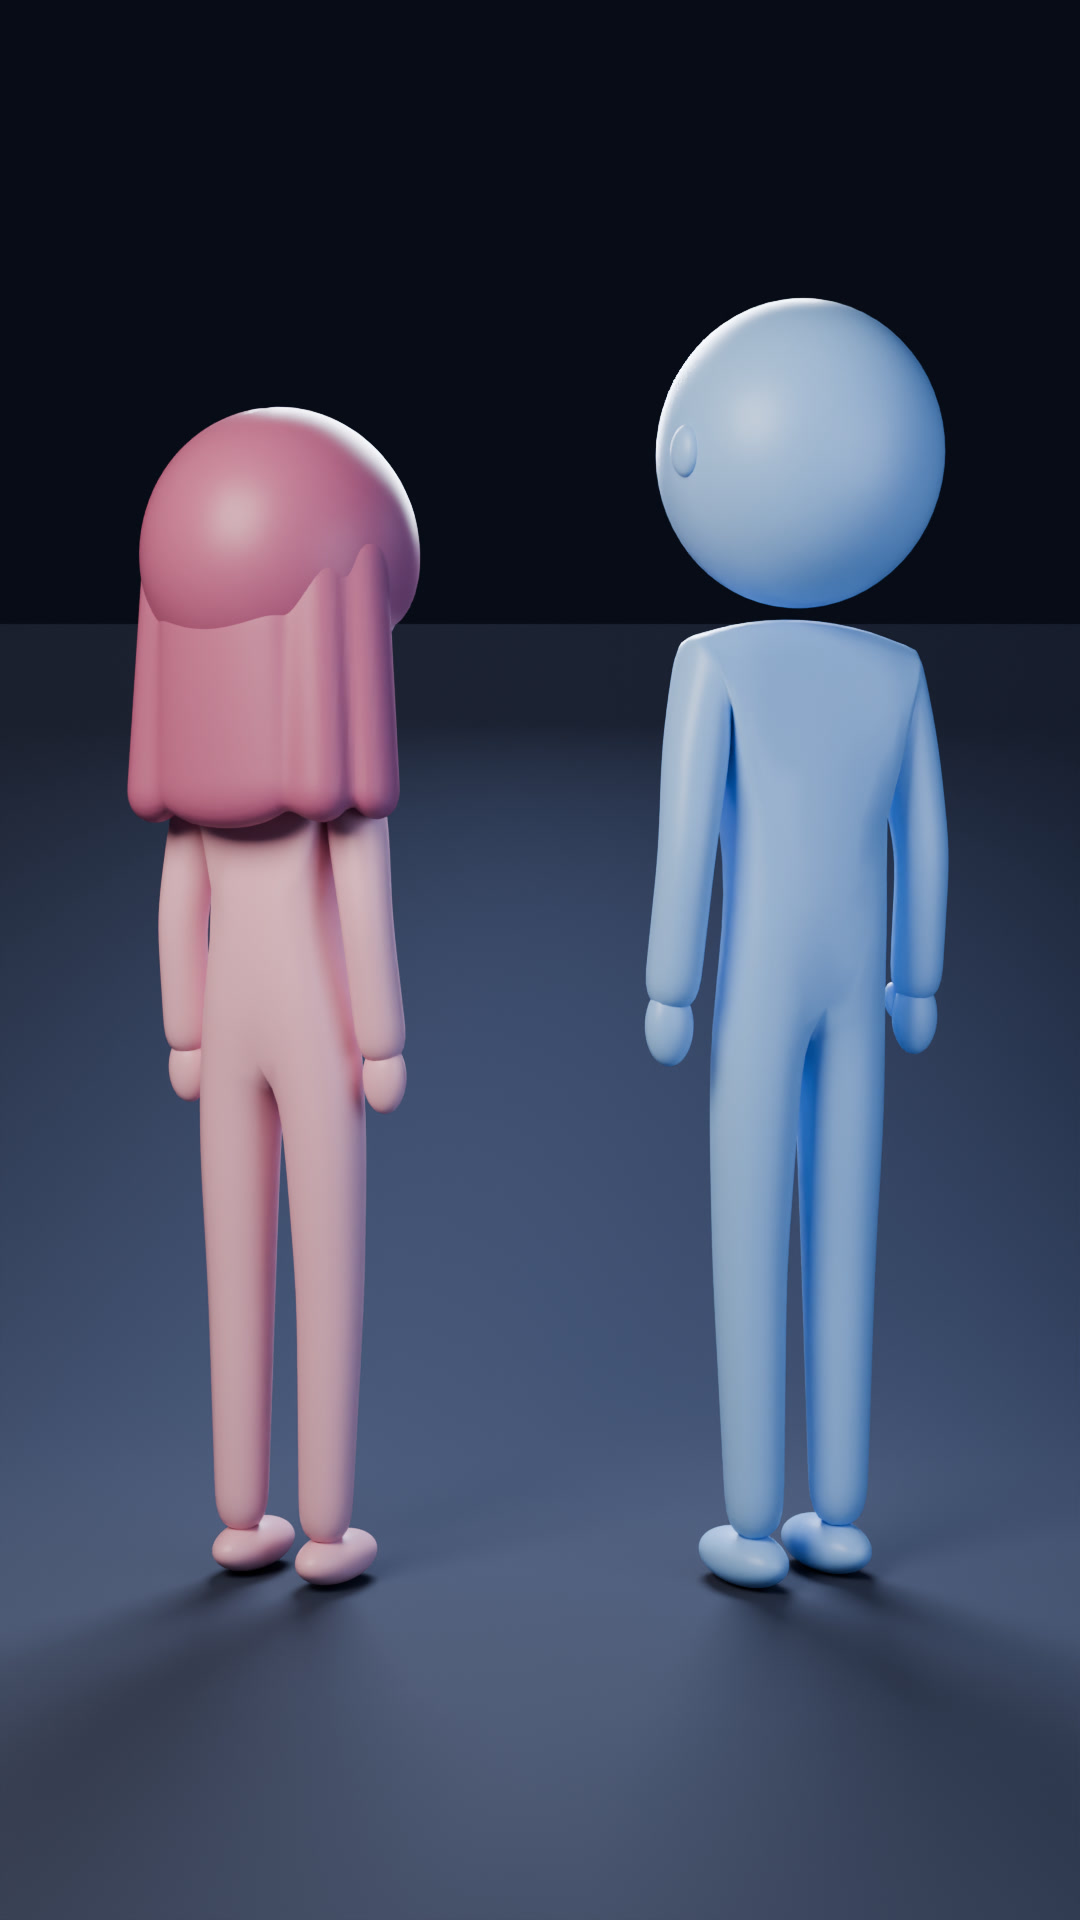
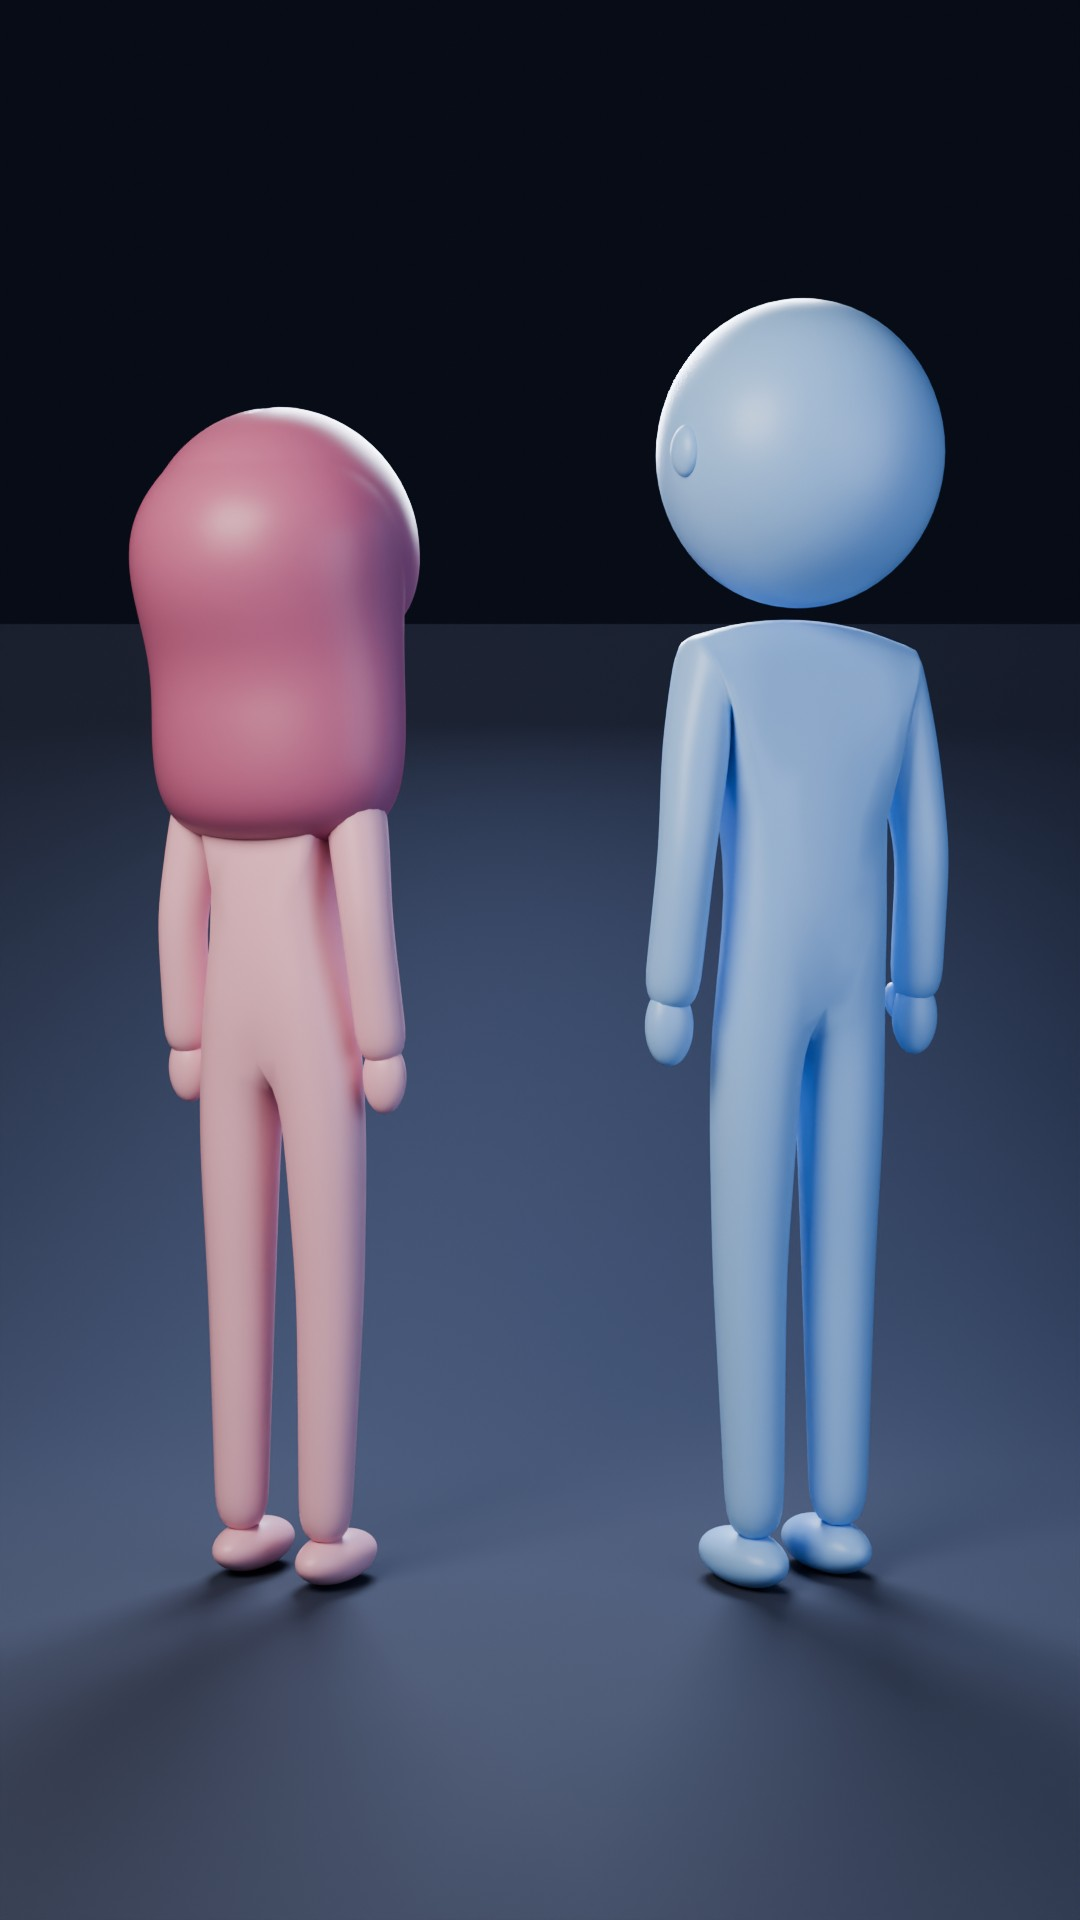
Her hanging hair: one smooth mass fused with the head, no seams
The hair is a single deformed sphere that wraps the back of the skull,
falls just below the shoulders and stays behind them in front. Head and
hair are joined and voxel-remeshed into one surface, then smoothed, so
there is no junction at the sides; the hair/skin colour mask is copied
from the original head and everything outside the skull is hair.
Updated character sheets and a hair close-up sheet.

Claude-Session: https://claude.ai/code/session_019j4rNug1jpN8UbwS8o65rp

Changed region(s): [[0.1222, 0.25, 0.3972, 0.4688]]

diff --git a/blender_figures/figures.py b/blender_figures/figures.py
@@ -139,24 +139,63 @@ def figure(w):
         nt.links.new(attr.outputs["Fac"], mix.inputs[0]); nt.links.new(mix.outputs[2], bsdf.inputs["Base Color"])
         bsdf.inputs["Roughness"].default_value = 0.42; bsdf.inputs["Subsurface Weight"].default_value = 0.06
         head.data.materials.clear(); head.data.materials.append(hm)
-        # the hanging part: soft blobby volume (metaballs) behind and beside the head, down to just below the shoulders
-        mb = bpy.data.metaballs.new("hairmb"); mb.resolution = 0.012; mb.render_resolution = 0.007; mb.threshold = 0.75
+        # the hanging part: ONE closed smooth mass (a deformed sphere) - hugs the back of the head, falls to just below
+        # the shoulders, comes forward only at the sides (frames the face), stays behind the neck in front; rounded ends
         bottom = -((H.z - R) - (z(1.22) - 0.13)) - R              # z of the hair ends, relative to the head centre
-        def blob(co, rad, sx, sy, sz):
-            e = mb.elements.new(); e.type = "ELLIPSOID"; e.co = co; e.radius = rad
-            e.size_x, e.size_y, e.size_z = sx, sy, sz; e.stiffness = 1.6
-        n = 22
-        blob((0, R * 0.3, R * 0.1), R * 0.93, 1.0, 0.9, 1.0)          # back of the head: hair dome merged with the strands
-        for i in range(n):
-            t = i / (n - 1); zz = 0.3 * R + (bottom + 0.06 - 0.3 * R) * t
-            fl = 1 + 0.18 * t                                    # ends flare a little
-            blob((0, R * (0.5 + 0.2 * min(1, t * 3) - 0.02 * t), zz), R * 0.42, 1.95 * fl, 0.72, 0.9)              # back sheet
-            for s in (-1, 1):
-                if t > 0.12:
-                    blob((s * R * 0.86 * fl, R * (0.2 + 0.05 * t), zz), R * 0.3, 0.8, 1.2, 0.9)   # side curtains
-                if t > 0.12: blob((s * R * 0.64 * fl, R * (0.46 + 0.1 * t), zz), R * 0.34, 1.0, 0.95, 0.9)        # corners
-        hs = bpy.data.objects.new("hair", mb); sc.collection.objects.link(hs)
-        hs.location = H; mb.materials.append(HAIR); reg(hs)
+        def sstep(a, b, x):
+            t = min(1, max(0, (x - a) / (b - a))); return t * t * (3 - 2 * t)
+        bpy.ops.mesh.primitive_uv_sphere_add(segments=128, ring_count=64, radius=1.0, location=(0, 0, 0))
+        hs = bpy.context.active_object; hs.name = "hair"
+        L = -bottom
+        for v in hs.data.vertices:
+            d = v.co.normalized()
+            # cap over the skull: just inside the raised hair of the head; pulled well inside at the face
+            back_bump = 0.09 * sstep(-0.2, 0.6, d.y) * (1 - sstep(0.05, 0.95, d.z))  # meets the curtain without a seam
+            cap = d * R * (1.03 + back_bump - 0.16 * sstep(-0.05, -0.45, d.y))
+            if d.z >= 0: v.co = cap; continue
+            s = -d.z
+            h = Vector((d.x, d.y, 0)); h = h.normalized() if h.length > 1e-6 else Vector((0, 1, 0))
+            rho = (1 - s ** 6) ** 0.3                                   # keeps the width, rounds off only at the very end
+            zz = -L * s ** 0.85
+            env = 1.13 * R * max(0.0, 1 - (zz / (1.13 * R)) ** 2) ** 0.5   # around the skull: stay just outside the head
+            def smax(p_, q_, k_=0.12 * R): return (p_ + q_ + ((p_ - q_) ** 2 + k_ * k_) ** 0.5) / 2
+            rx = smax(R * (1.0 + 0.10 * s) * rho, env)                  # width: head-wide, slightly fuller at the ends
+            x = h.x * rx
+            yb = smax(R * 0.80 * rho, env)                              # depth at the back
+            if h.y >= 0:
+                y = h.y * yb
+            else:   # front half: same depth at the sides (no crease), then curves back behind the neck in the middle
+                u = math.atan2(-h.y, abs(h.x)) / (math.pi / 2)           # 0 at the side .. 1 straight ahead
+                y = h.y * (yb - (yb + R * 0.30 * rho) * sstep(0.0, 0.55, u))   # sides stay behind the shoulders
+            curtain = Vector((x, y, zz))
+            bl = sstep(0.0, 0.45, s)                                    # blend from the skull cap into the curtain
+            v.co = cap.lerp(curtain, bl)
+        smooth(hs)
+        sub_h = hs.modifiers.new("sub", "SUBSURF"); sub_h.levels = sub_h.render_levels = 2
+        hs.location = H; hs.data.materials.append(HAIR)
+        # fuse head + hair into ONE surface (voxel remesh) and soften the junction, so there is no seam at the sides;
+        # the hair/skin colour mask is copied back from the original head
+        src = head.copy(); src.data = head.data.copy(); sc.collection.objects.link(src); src.hide_render = True; src.hide_viewport = True
+        bpy.ops.object.select_all(action="DESELECT"); hs.select_set(True); bpy.context.view_layer.objects.active = hs
+        bpy.ops.object.modifier_apply(modifier="sub")
+        head.select_set(True); bpy.context.view_layer.objects.active = head
+        bpy.ops.object.join()
+        rm = head.modifiers.new("remesh", "REMESH"); rm.mode = "VOXEL"; rm.voxel_size = 0.0035; rm.use_smooth_shade = True
+        bpy.ops.object.modifier_apply(modifier="remesh")
+        sm = head.modifiers.new("smooth", "SMOOTH"); sm.factor = 0.6; sm.iterations = 12
+        bpy.ops.object.modifier_apply(modifier="smooth")
+        head.data.color_attributes.new("hairmask", "FLOAT_COLOR", "POINT")
+        dt = head.modifiers.new("mask", "DATA_TRANSFER"); dt.object = src
+        dt.use_vert_data = True; dt.data_types_verts = {"COLOR_VERTEX"}; dt.vert_mapping = "POLYINTERP_NEAREST"
+        dt.layers_vcol_vert_select_src = "ALL"; dt.layers_vcol_vert_select_dst = "NAME"
+        bpy.ops.object.modifier_apply(modifier="mask")
+        # everything outside the original skull or hanging below it is hair; the face keeps the copied mask
+        Mw = head.matrix_world.copy()
+        for v, c in zip(head.data.vertices, head.data.color_attributes["hairmask"].data):
+            q = Mw @ v.co - H; dist = q.length
+            hm_ = max(c.color[0], sstep(1.02 * R, 1.07 * R, dist), sstep(-0.82 * R, -0.95 * R, q.z) * sstep(-0.25 * R, -0.05 * R, q.y))
+            c.color = (hm_, hm_, hm_, 1)
+        head.data.materials.clear(); head.data.materials.append(hm); smooth(head)
     else:
         for s in (-1, 1):                 # small ears so his bald head reads as a head
             sphere("ear", H + Vector((s * R * 0.95, 0.01, -0.01)), R * 0.17, m, (0.5, 0.8, 1.0))
@@ -211,3 +250,8 @@ def shoot(pos, tgt, path):
 shoot((0.0, -3.9, 1.1), (0, 0, 0.92), PRE + "_front.png")
 her.rotation_euler = (0, 0, math.radians(150)); him.rotation_euler = (0, 0, math.radians(-150))
 shoot((0.0, -3.9, 1.1), (0, 0, 0.92), PRE + "_back.png")
+if len(argv) > 3 and argv[3] == "cu":               # close-ups of her head (front, back, side)
+    her.rotation_euler = (0, 0, 0); hz = her.location.z + 1.5
+    for nm, ang in (("cu_front", 0), ("cu_side", 70), ("cu_back", 180)):
+        her.rotation_euler = (0, 0, math.radians(ang))
+        shoot((-0.38, -1.5, 1.45), (-0.38, 0, 1.35), PRE + "_" + nm + ".png")

diff --git a/HANDOFF.md b/HANDOFF.md
@@ -29,7 +29,9 @@
 - переход волос ко лбу должен быть **плавным, без бортика/ступеньки**;
 - всё должно быть **гладенько**, без острых краёв.
 
-**Открытая проблема (следующий шаг): свисающие волосы.**
+**Свисающие волосы — решено (03.11):** одна цельная масса (деформированная сфера), голова и волосы слиты в одну поверхность (voxel remesh + сглаживание), маска «волосы/кожа» переносится с исходной головы, снаружи черепа — всегда волосы. Без швов, прядей и острых краёв; спереди не ложатся на плечи. Крупные планы: `blender_figures/hair_closeup.jpg`. Ниже — история попыток.
+
+**Было (история): свисающие волосы.**
 - Тонкая оболочка (shell + solidify) → края «острые/обрывистые» — не понравилось.
 - Метаболлы (текущая версия в `blender_figures/figures.py`) → видно отдельные «макаронины» — **не понравилось**.
 - Идея, которую не успели проверить: одна **сплошная толстая** оболочка (solidify ~0.06, subsurf 3, сглаженная кромка),
